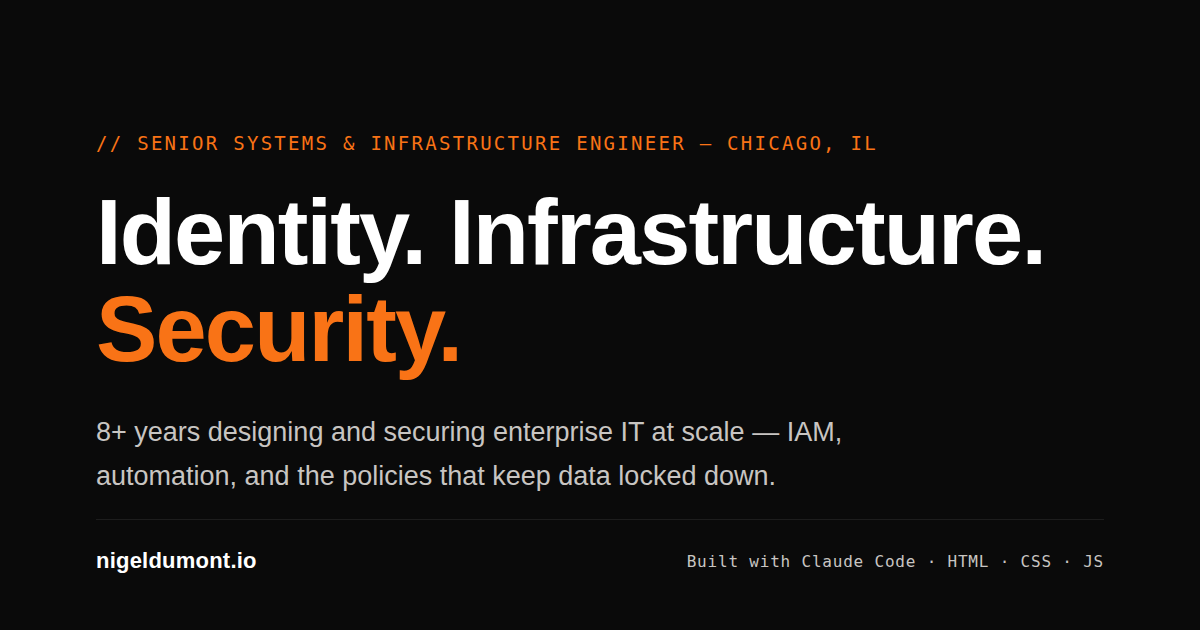
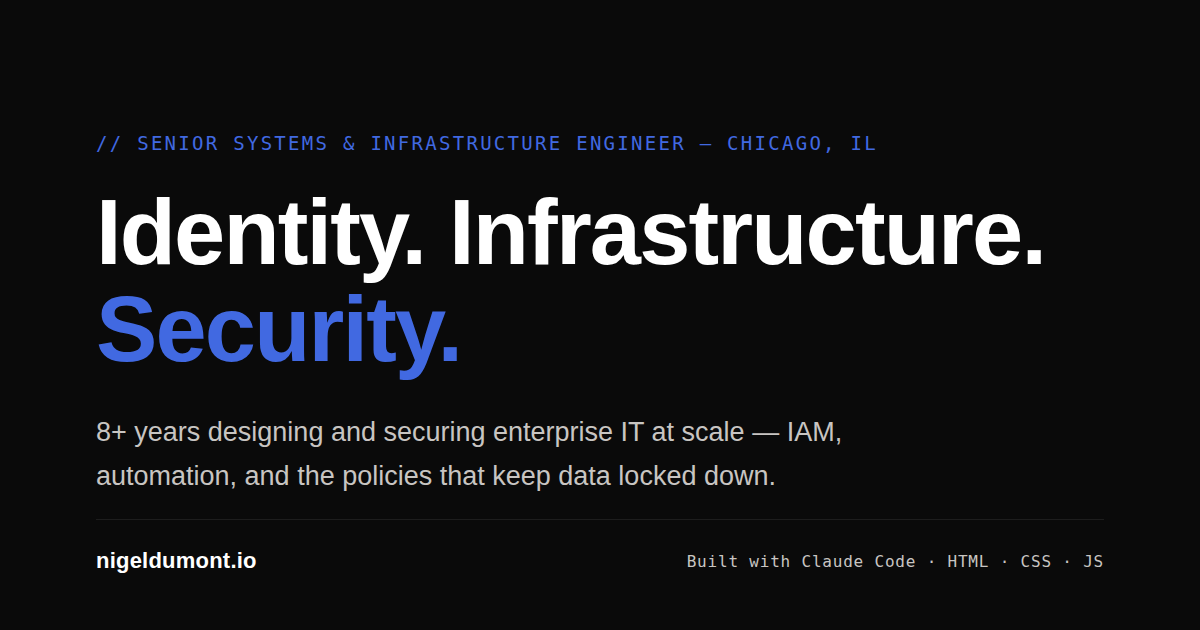
Switch accent from orange to royal/navy blue; builder defaults to light mode
- Portfolio + work samples: --blue #1E40AF (light) / #4169E1 (dark)
  replaces orange on hero, CTAs, nav tool button, hovers, contact dots
- Favicon dot and social preview card re-tinted to match
- Network builder app: full accent swap to royal blue, rebuilt and
  redeployed; now opens in light mode by default (dark via toggle)

Claude-Session: https://claude.ai/code/session_018G54t9JrTmAijpe9mP6uMb

Changed region(s): [[0.0617, 0.4524, 0.4008, 0.6032], [0.0925, 0.2111, 0.74, 0.2413]]

diff --git a/index.html b/index.html
@@ -37,8 +37,10 @@
     --muted: #6B6864;
     --accent: #4A4845;
     --accent2: #767370;
-    --orange: #EA580C;
-    --orange-deep: #C2410C;
+    --blue: #1E40AF;
+    --blue-deep: #1E3A8A;
+    --blue-dim: rgba(30,64,175,0.08);
+    --blue-border: rgba(30,64,175,0.45);
     --mono: 'Space Mono', monospace;
     --sans: 'Space Grotesk', sans-serif;
     --nav-bg: rgba(245,244,242,0.88);
@@ -54,8 +56,10 @@
     --muted: #C8C5C2;
     --accent: #FFFFFF;
     --accent2: #C8C5C2;
-    --orange: #F97316;
-    --orange-deep: #EA580C;
+    --blue: #4169E1;
+    --blue-deep: #2F4FC7;
+    --blue-dim: rgba(65,105,225,0.12);
+    --blue-border: rgba(65,105,225,0.55);
     --nav-bg: rgba(10,10,10,0.85);
   }
 
@@ -115,24 +119,24 @@
     transition: color 0.2s;
   }
 
-  .nav-links a:hover { color: var(--orange); }
+  .nav-links a:hover { color: var(--blue); }
 
   .nav-tool-link {
     display: flex;
     align-items: center;
     gap: 5px;
     font-size: 12px;
-    color: #F97316;
+    color: var(--blue);
     text-decoration: none;
-    border: 0.5px solid rgba(249,115,22,0.45);
+    border: 0.5px solid var(--blue-border);
     border-radius: 4px;
     padding: 5px 10px;
     transition: background 0.15s, border-color 0.15s;
     line-height: 1;
   }
   .nav-tool-link:hover {
-    background: rgba(249,115,22,0.08);
-    border-color: #F97316;
+    background: var(--blue-dim);
+    border-color: var(--blue);
   }
   .nav-new-badge {
     font-family: var(--mono);
@@ -140,7 +144,7 @@
     letter-spacing: 0.08em;
     text-transform: uppercase;
     color: #FFFFFF;
-    background: #F97316;
+    background: var(--blue);
     border-radius: 3px;
     padding: 1px 4px;
     font-weight: 700;
@@ -184,7 +188,7 @@
   .hero-eyebrow {
     font-family: var(--mono);
     font-size: 12px;
-    color: var(--orange);
+    color: var(--blue);
     letter-spacing: 0.12em;
     text-transform: uppercase;
     margin-bottom: 1.5rem;
@@ -198,7 +202,7 @@
     margin-bottom: 1.5rem;
   }
 
-  .hero h1 em { font-style: normal; color: var(--orange); }
+  .hero h1 em { font-style: normal; color: var(--blue); }
 
   .hero-sub {
     font-size: 1.15rem;
@@ -281,8 +285,8 @@
     display: inline-block;
   }
 
-  .btn-primary { background: var(--orange); color: #FFFFFF; font-weight: 700; }
-  .btn-primary:hover { background: var(--orange-deep); }
+  .btn-primary { background: var(--blue); color: #FFFFFF; font-weight: 700; }
+  .btn-primary:hover { background: var(--blue-deep); }
   .btn-ghost { background: transparent; color: var(--muted); border: 0.5px solid var(--border-hi); }
   .btn-ghost:hover { color: var(--text); border-color: var(--accent); }
 
@@ -629,15 +633,15 @@
   }
 
   .project-link-primary {
-    background: var(--orange);
+    background: var(--blue);
     color: #FFFFFF;
-    border-color: var(--orange);
+    border-color: var(--blue);
   }
 
   .project-link-primary:hover {
-    background: var(--orange-deep);
+    background: var(--blue-deep);
     color: #FFFFFF;
-    border-color: var(--orange-deep);
+    border-color: var(--blue-deep);
   }
 
   .contact-block { display: grid; grid-template-columns: 1fr 1fr; gap: 4rem; align-items: start; }
@@ -665,8 +669,8 @@
     transition: color 0.2s;
   }
 
-  .contact-link:hover { color: var(--orange); }
-  .contact-link-dot { width: 5px; height: 5px; border-radius: 50%; background: var(--orange); flex-shrink: 0; }
+  .contact-link:hover { color: var(--blue); }
+  .contact-link-dot { width: 5px; height: 5px; border-radius: 50%; background: var(--blue); flex-shrink: 0; }
 
   .cert-list { display: flex; flex-direction: column; gap: 0.75rem; margin-top: 0.5rem; }
 

diff --git a/network-builder/frontend/src/App.css b/network-builder/frontend/src/App.css
@@ -29,11 +29,11 @@
   --text-muted: #888580;
   --text-dim:   #555552;
 
-  /* Accent — orange */
-  --accent:        #F97316;
+  /* Accent — royal blue */
+  --accent:        #4169E1;
   --accent-dim:    rgba(249, 115, 22, 0.10);
   --accent-border: rgba(249, 115, 22, 0.28);
-  --accent-dark:   #EA580C;
+  --accent-dark:   #1E40AF;
 
   /* Semantic section colors — kept subtle to stay in palette */
   --blue:        #8BAACC;
@@ -265,7 +265,7 @@ body {
   text-align: center;
   margin-bottom: var(--space-12);
   padding: var(--space-12) 0 var(--space-8);
-  background: radial-gradient(ellipse 80% 55% at 50% 0%, rgba(249,115,22,0.07) 0%, transparent 100%);
+  background: radial-gradient(ellipse 80% 55% at 50% 0%, rgba(65,105,225,0.07) 0%, transparent 100%);
   border-radius: var(--radius-lg);
 }
 
@@ -374,9 +374,9 @@ body {
 }
 
 .option-card--selected {
-  border-color: #F97316;
-  background: rgba(249,115,22,0.08);
-  box-shadow: 0 0 0 1px rgba(249,115,22,0.15);
+  border-color: #4169E1;
+  background: rgba(65,105,225,0.08);
+  box-shadow: 0 0 0 1px rgba(65,105,225,0.15);
 }
 
 .option-card--disabled {
@@ -414,7 +414,7 @@ body {
   right: 8px;
   width: 18px;
   height: 18px;
-  background: #F97316;
+  background: #4169E1;
   border-radius: 50%;
   display: flex;
   align-items: center;
@@ -487,7 +487,7 @@ body {
 .btn:disabled { opacity: 0.4; cursor: not-allowed; }
 
 .btn--primary {
-  background: #F97316;
+  background: #4169E1;
   color: #FFFFFF;
   letter-spacing: 0.01em;
 }
@@ -1179,10 +1179,10 @@ body.light {
   --text:       #1A1A1A;
   --text-muted: #6B6864;
   --text-dim:   #9E9B97;
-  --accent:        #EA580C;
-  --accent-dim:    rgba(234,88,12,0.09);
-  --accent-border: rgba(234,88,12,0.25);
-  --accent-dark:   #C2410C;
+  --accent:        #1E40AF;
+  --accent-dim:    rgba(30,64,175,0.09);
+  --accent-border: rgba(30,64,175,0.25);
+  --accent-dark:   #1E3A8A;
   --blue:        #3B6B9E;
   --blue-dim:    rgba(59,107,158,0.08);
   --blue-border: rgba(59,107,158,0.20);
@@ -1209,21 +1209,21 @@ body.light .questionnaire__hero {
 }
 
 body.light .btn--primary {
-  background: #EA580C;
+  background: #1E40AF;
   color: #FFFFFF;
 }
 
 body.light .option-card--selected {
-  border-color: #EA580C;
-  background: rgba(234,88,12,0.07);
-  box-shadow: 0 0 0 1px rgba(234,88,12,0.15);
+  border-color: #1E40AF;
+  background: rgba(30,64,175,0.07);
+  box-shadow: 0 0 0 1px rgba(30,64,175,0.15);
 }
 
-body.light .option-card__check { background: #EA580C; }
+body.light .option-card__check { background: #1E40AF; }
 body.light .option-card__check::after { border-color: #FFFFFF; }
 
 body.light .questionnaire__hero {
-  background: radial-gradient(ellipse 80% 55% at 50% 0%, rgba(234,88,12,0.06) 0%, transparent 100%);
+  background: radial-gradient(ellipse 80% 55% at 50% 0%, rgba(30,64,175,0.06) 0%, transparent 100%);
 }
 
 body.light .option-card:hover:not(.option-card--disabled) {
@@ -1232,7 +1232,7 @@ body.light .option-card:hover:not(.option-card--disabled) {
 }
 
 body.light .step-list__item--completed .step-list__num {
-  background: #EA580C;
+  background: #1E40AF;
   color: #FFFFFF;
 }
 

diff --git a/work-samples.html b/work-samples.html
@@ -31,7 +31,7 @@
     --bg: #F5F4F2; --surface: #ECEAE7; --surface2: #E2E0DC;
     --border: rgba(0,0,0,0.08); --border-hi: rgba(0,0,0,0.18);
     --text: #1A1A1A; --muted: #6B6864; --accent: #4A4845; --accent2: #767370;
-    --orange: #EA580C; --orange-deep: #C2410C;
+    --blue: #1E40AF; --blue-deep: #1E3A8A; --blue-dim: rgba(30,64,175,0.08); --blue-border: rgba(30,64,175,0.45);
     --mono: 'Space Mono', monospace; --sans: 'Space Grotesk', sans-serif;
     --nav-bg: rgba(245,244,242,0.88);
   }
@@ -39,7 +39,7 @@
     --bg: #0A0A0A; --surface: #111111; --surface2: #1A1A1A;
     --border: rgba(255,255,255,0.08); --border-hi: rgba(255,255,255,0.18);
     --text: #FFFFFF; --muted: #C8C5C2; --accent: #FFFFFF; --accent2: #C8C5C2;
-    --orange: #F97316; --orange-deep: #EA580C;
+    --blue: #4169E1; --blue-deep: #2F4FC7; --blue-dim: rgba(65,105,225,0.12); --blue-border: rgba(65,105,225,0.55);
     --nav-bg: rgba(10,10,10,0.85);
   }
 
@@ -54,11 +54,11 @@
   .nav-right { display: flex; align-items: center; gap: 0.75rem; margin-left: auto; }
   .nav-links { display: flex; gap: 1.5rem; list-style: none; }
   .nav-links a { font-size: 12px; color: var(--muted); text-decoration: none; font-family: var(--mono); letter-spacing: 0.04em; transition: color 0.2s; }
-  .nav-links a:hover { color: var(--orange); }
+  .nav-links a:hover { color: var(--blue); }
   .nav-links a.active { color: var(--text); }
-  .nav-tool-link { display: flex; align-items: center; gap: 5px; font-size: 12px; color: #F97316; text-decoration: none; border: 0.5px solid rgba(249,115,22,0.45); border-radius: 4px; padding: 5px 10px; transition: background 0.15s, border-color 0.15s; line-height: 1; font-family: var(--mono); }
-  .nav-tool-link:hover { background: rgba(249,115,22,0.08); border-color: #F97316; }
-  .nav-new-badge { font-family: var(--mono); font-size: 8px; letter-spacing: 0.08em; text-transform: uppercase; color: #FFFFFF; background: #F97316; border-radius: 3px; padding: 1px 4px; font-weight: 700; }
+  .nav-tool-link { display: flex; align-items: center; gap: 5px; font-size: 12px; color: var(--blue); text-decoration: none; border: 0.5px solid var(--blue-border); border-radius: 4px; padding: 5px 10px; transition: background 0.15s, border-color 0.15s; line-height: 1; font-family: var(--mono); }
+  .nav-tool-link:hover { background: var(--blue-dim); border-color: var(--blue); }
+  .nav-new-badge { font-family: var(--mono); font-size: 8px; letter-spacing: 0.08em; text-transform: uppercase; color: #FFFFFF; background: var(--blue); border-radius: 3px; padding: 1px 4px; font-weight: 700; }
   .theme-toggle { background: none; border: 0.5px solid var(--border-hi); color: var(--muted); border-radius: 4px; padding: 5px 10px; font-family: var(--mono); font-size: 11px; letter-spacing: 0.04em; cursor: pointer; transition: color 0.2s, border-color 0.2s; line-height: 1; }
   .theme-toggle:hover { color: var(--text); border-color: var(--accent); }
 

diff --git a/network-builder/app/index.html b/network-builder/app/index.html
@@ -10,8 +10,8 @@
       href="https://fonts.googleapis.com/css2?family=Space+Grotesk:wght@400;500;600;700&family=Space+Mono:wght@400;700&display=swap"
       rel="stylesheet"
     />
-    <script type="module" crossorigin src="/nigeldumont.github.io/network-builder/app/assets/index-BxHi2C2N.js"></script>
-    <link rel="stylesheet" crossorigin href="/nigeldumont.github.io/network-builder/app/assets/index-C9lVfUGh.css">
+    <script type="module" crossorigin src="/nigeldumont.github.io/network-builder/app/assets/index-DFdn9rKr.js"></script>
+    <link rel="stylesheet" crossorigin href="/nigeldumont.github.io/network-builder/app/assets/index-ovAQERTJ.css">
   </head>
   <body>
     <div id="root"></div>

diff --git a/network-builder/frontend/src/App.jsx b/network-builder/frontend/src/App.jsx
@@ -17,7 +17,7 @@ export default function App() {
   const [currentStep, setCurrentStep] = useState(0);
   const [error, setError] = useState(null);
   const [theme, setTheme] = useState(
-    () => localStorage.getItem("nb-theme") || "dark"
+    () => localStorage.getItem("nb-theme") || "light"
   );
 
   useEffect(() => {

diff --git a/network-builder/app/assets/index-ovAQERTJ.css b/network-builder/app/assets/index-ovAQERTJ.css
@@ -1,0 +1,1 @@
+*,*:before,*:after{box-sizing:border-box;margin:0;padding:0}:root{--bg: #0A0A0A;--surface: #111111;--surface2: #1A1A1A;--surface3: #222222;--surface4: #2A2A2A;--border: rgba(255, 255, 255, .08);--border-hi: rgba(255, 255, 255, .22);--border-focus: rgba(232, 230, 227, .5);--text: #E8E6E3;--text-muted: #888580;--text-dim: #555552;--accent: #4169E1;--accent-dim: rgba(249, 115, 22, .1);--accent-border: rgba(249, 115, 22, .28);--accent-dark: #1E40AF;--blue: #8BAACC;--blue-dim: rgba(139, 170, 204, .08);--blue-border: rgba(139, 170, 204, .2);--amber: #C4A882;--amber-dim: rgba(196, 168, 130, .08);--amber-border:rgba(196, 168, 130, .2);--red: #C08080;--red-dim: rgba(192, 128, 128, .08);--red-border: rgba(192, 128, 128, .2);--purple: #9E8FBF;--purple-dim: rgba(158, 143, 191, .08);--purple-border: rgba(158, 143, 191, .2);--sans: "Space Grotesk", system-ui, sans-serif;--mono: "Space Mono", "Courier New", monospace;--space-1: 4px;--space-2: 8px;--space-3: 12px;--space-4: 16px;--space-5: 20px;--space-6: 24px;--space-8: 32px;--space-10: 40px;--space-12: 48px;--space-16: 64px;--radius-sm: 6px;--radius: 10px;--radius-lg: 16px;--transition: .15s ease}html{scroll-behavior:smooth}body{background:var(--bg);color:var(--text);font-family:var(--sans);font-size:15px;line-height:1.6;-webkit-font-smoothing:antialiased;min-height:100vh}.app{display:flex;flex-direction:column;min-height:100vh}.app-header{position:sticky;top:0;z-index:100;background:#0a0a0ae6;backdrop-filter:blur(16px);-webkit-backdrop-filter:blur(16px);border-bottom:1px solid rgba(255,255,255,.07);padding:var(--space-4) var(--space-8);display:flex;align-items:center;justify-content:space-between;gap:var(--space-4)}.app-header__logo{display:flex;align-items:center;gap:var(--space-3)}.app-header__dot{width:8px;height:8px;border-radius:50%;background:var(--accent);flex-shrink:0}.app-header__title{font-size:15px;font-weight:600;letter-spacing:.01em;color:var(--text)}.app-header__sub{font-size:12px;color:var(--text-muted);font-family:var(--mono)}.app-header__badge{font-size:11px;font-family:var(--mono);color:var(--accent);background:var(--accent-dim);border:1px solid var(--accent-border);border-radius:var(--radius-sm);padding:2px 8px;white-space:nowrap}.app-header__right{display:flex;align-items:center;gap:var(--space-4)}.app-header__back{font-size:12px;font-family:var(--mono);color:var(--text-muted);text-decoration:none;letter-spacing:.04em;transition:color var(--transition);white-space:nowrap}.app-header__back:hover{color:var(--text)}.theme-toggle{font-size:12px;font-family:var(--mono);color:var(--text-muted);background:transparent;border:1px solid var(--border-hi);border-radius:var(--radius-sm);padding:4px 10px;cursor:pointer;transition:color var(--transition),border-color var(--transition),background var(--transition);white-space:nowrap}.theme-toggle:hover{color:var(--text);background:var(--surface2)}.main{flex:1;padding:var(--space-10) var(--space-8);max-width:960px;margin:0 auto;width:100%}.loading{display:flex;flex-direction:column;align-items:center;justify-content:center;min-height:60vh;gap:var(--space-5)}.loading__spinner{width:40px;height:40px;border:3px solid var(--border);border-top-color:var(--accent);border-radius:50%;animation:spin .8s linear infinite}@keyframes spin{to{transform:rotate(360deg)}}.loading__text{font-size:14px;color:var(--text-muted);font-family:var(--mono)}.error-card{background:var(--red-dim);border:1px solid var(--red-border);border-radius:var(--radius-lg);padding:var(--space-8);text-align:center;max-width:500px;margin:var(--space-16) auto}.error-card__icon{font-size:32px;margin-bottom:var(--space-4)}.error-card__title{font-size:18px;font-weight:600;margin-bottom:var(--space-3)}.error-card__message{font-size:14px;color:var(--text-muted);margin-bottom:var(--space-6);line-height:1.6}.questionnaire{max-width:680px;margin:0 auto}.questionnaire__hero{text-align:center;margin-bottom:var(--space-12);padding:var(--space-12) 0 var(--space-8);background:radial-gradient(ellipse 80% 55% at 50% 0%,rgba(65,105,225,.07) 0%,transparent 100%);border-radius:var(--radius-lg)}.questionnaire__eyebrow{font-size:12px;font-family:var(--mono);color:var(--accent);letter-spacing:.1em;text-transform:uppercase;margin-bottom:var(--space-4)}.questionnaire__title{font-size:clamp(34px,5vw,50px);font-weight:700;line-height:1.15;letter-spacing:-.03em;margin-bottom:var(--space-4);color:#fff}.questionnaire__subtitle{font-size:16px;color:var(--text-muted);line-height:1.6;max-width:500px;margin:0 auto var(--space-4)}.questionnaire__byline{font-size:12px;font-family:var(--mono);color:var(--text-dim);letter-spacing:.06em}.questionnaire__form{display:flex;flex-direction:column;gap:var(--space-8)}.question-block{display:flex;flex-direction:column;gap:var(--space-3)}.question-block__label{font-size:13px;font-family:var(--mono);color:var(--text-muted);text-transform:uppercase;letter-spacing:.08em;display:flex;align-items:center;gap:var(--space-2)}.question-block__number{display:inline-flex;align-items:center;justify-content:center;width:20px;height:20px;background:var(--surface3);border-radius:50%;font-size:11px;color:var(--accent);font-weight:700}.question-block__title{font-size:18px;font-weight:600;margin-bottom:var(--space-1)}.option-grid{display:grid;grid-template-columns:repeat(auto-fill,minmax(180px,1fr));gap:var(--space-3)}.option-grid--2col{grid-template-columns:1fr 1fr}.option-card{background:var(--surface);border:1px solid var(--border);border-radius:var(--radius);padding:var(--space-4) var(--space-5);cursor:pointer;transition:border-color var(--transition),background var(--transition),transform var(--transition),box-shadow var(--transition);position:relative;-webkit-user-select:none;user-select:none}.option-card:hover:not(.option-card--disabled){border-color:#ffffff4d;background:var(--surface2);transform:translateY(-1px);box-shadow:0 4px 16px #0006}.option-card--selected{border-color:#4169e1;background:#4169e114;box-shadow:0 0 0 1px #4169e126}.option-card--disabled{opacity:.4;cursor:not-allowed}.option-card__title{font-size:14px;font-weight:600;margin-bottom:2px}.option-card__desc{font-size:12px;color:var(--text-muted);line-height:1.4}.option-card__soon{position:absolute;top:8px;right:8px;font-size:10px;font-family:var(--mono);color:var(--text-dim);background:var(--surface3);border-radius:4px;padding:1px 5px}.option-card__check{position:absolute;top:8px;right:8px;width:18px;height:18px;background:#4169e1;border-radius:50%;display:flex;align-items:center;justify-content:center}.option-card__check:after{content:"";width:5px;height:9px;border:2px solid #0A0A0A;border-top:none;border-left:none;transform:rotate(45deg) translateY(-1px)}.security-banner{background:var(--surface);border:1px solid var(--accent-border);border-radius:var(--radius);padding:var(--space-4) var(--space-5);display:flex;gap:var(--space-4);align-items:flex-start}.security-banner__icon{font-size:20px;flex-shrink:0;margin-top:1px}.security-banner__title{font-size:14px;font-weight:600;color:var(--accent);margin-bottom:var(--space-1)}.security-banner__body{font-size:13px;color:var(--text-muted);line-height:1.6}.questionnaire__submit{margin-top:var(--space-4)}.btn{display:inline-flex;align-items:center;justify-content:center;gap:var(--space-2);font-family:var(--sans);font-size:14px;font-weight:600;padding:10px 22px;border-radius:var(--radius-sm);border:none;cursor:pointer;transition:opacity var(--transition),transform var(--transition);white-space:nowrap}.btn:hover{opacity:.88}.btn:active{transform:scale(.98)}.btn:disabled{opacity:.4;cursor:not-allowed}.btn--primary{background:#4169e1;color:#fff;letter-spacing:.01em}.btn--secondary{background:var(--surface3);color:var(--text);border:1px solid var(--border-hi)}.btn--ghost{background:transparent;color:var(--text-muted);border:1px solid var(--border)}.btn--ghost:hover{background:var(--surface);color:var(--text)}.btn--lg{font-size:16px;padding:14px 32px;border-radius:var(--radius)}.btn--full{width:100%}.progress-bar{display:flex;align-items:center;gap:var(--space-3);margin-bottom:var(--space-8)}.progress-bar__track{flex:1;height:3px;background:var(--surface3);border-radius:99px;overflow:hidden}.progress-bar__fill{height:100%;background:var(--accent);border-radius:99px;transition:width .35s ease}.progress-bar__label{font-size:12px;font-family:var(--mono);color:var(--text-muted);white-space:nowrap}.walkthrough{display:grid;grid-template-columns:220px 1fr;gap:var(--space-8);align-items:start}.step-list{position:sticky;top:80px;display:flex;flex-direction:column;gap:2px}.step-list__path{font-size:11px;font-family:var(--mono);color:var(--accent);text-transform:uppercase;letter-spacing:.08em;margin-bottom:var(--space-4);padding:var(--space-2) var(--space-3);background:var(--accent-dim);border:1px solid var(--accent-border);border-radius:var(--radius-sm)}.step-list__item{display:flex;align-items:center;gap:var(--space-3);padding:var(--space-2) var(--space-3);border-radius:var(--radius-sm);cursor:pointer;transition:background var(--transition);border:1px solid transparent}.step-list__item:hover{background:var(--surface2)}.step-list__item--active{background:var(--surface2);border-color:var(--border)}.step-list__item--completed .step-list__num{background:var(--accent);color:#000}.step-list__num{width:24px;height:24px;border-radius:50%;background:var(--surface3);color:var(--text-muted);font-size:11px;font-family:var(--mono);font-weight:700;display:flex;align-items:center;justify-content:center;flex-shrink:0;transition:background var(--transition),color var(--transition)}.step-list__item--active .step-list__num{background:var(--surface4);color:var(--text);border:1px solid var(--accent)}.step-list__name{font-size:12px;color:var(--text-muted);line-height:1.3}.step-list__item--active .step-list__name{color:var(--text);font-weight:500}.step-card{display:flex;flex-direction:column;gap:var(--space-5)}.step-card__header{display:flex;align-items:center;gap:var(--space-4);margin-bottom:var(--space-2)}.step-card__num{font-size:12px;font-family:var(--mono);color:var(--accent);background:var(--accent-dim);border:1px solid var(--accent-border);border-radius:var(--radius-sm);padding:2px 10px;white-space:nowrap}.step-card__title{font-size:26px;font-weight:700;letter-spacing:-.02em;flex:1}.section{background:var(--surface);border-radius:var(--radius);overflow:hidden}.section__header{display:flex;align-items:center;gap:var(--space-3);padding:var(--space-4) var(--space-5);border-bottom:1px solid var(--border)}.section__icon{width:28px;height:28px;border-radius:var(--radius-sm);display:flex;align-items:center;justify-content:center;font-size:14px;flex-shrink:0}.section--what .section__icon{background:var(--blue-dim);border:1px solid var(--blue-border)}.section--why .section__icon{background:var(--amber-dim);border:1px solid var(--amber-border)}.section--products .section__icon{background:var(--accent-dim);border:1px solid var(--accent-border)}.section--alts .section__icon{background:var(--surface3);border:1px solid var(--border)}.section--patch .section__icon{background:var(--red-dim);border:1px solid var(--red-border)}.section--config .section__icon{background:var(--purple-dim);border:1px solid var(--purple-border)}.section__title{font-size:13px;font-weight:600;text-transform:uppercase;letter-spacing:.06em}.section--what .section__title{color:var(--blue)}.section--why .section__title{color:var(--amber)}.section--products .section__title{color:var(--accent)}.section--alts .section__title{color:var(--text-muted)}.section--patch .section__title{color:var(--red)}.section--config .section__title{color:var(--purple)}.section__body{padding:var(--space-5)}.section__text{font-size:14px;color:var(--text-muted);line-height:1.7}.product-list{display:flex;flex-direction:column;gap:var(--space-3)}.product-card{background:var(--surface2);border:1px solid var(--border);border-radius:var(--radius);padding:var(--space-4) var(--space-5)}.product-card__top{display:flex;align-items:flex-start;justify-content:space-between;gap:var(--space-4);margin-bottom:var(--space-2)}.product-card__name{font-size:14px;font-weight:600;line-height:1.4}.product-card__price{font-size:13px;font-family:var(--mono);color:var(--accent);white-space:nowrap;flex-shrink:0;background:var(--accent-dim);border:1px solid var(--accent-border);border-radius:var(--radius-sm);padding:2px 8px}.product-card__role{font-size:11px;font-family:var(--mono);color:var(--text-dim);text-transform:uppercase;letter-spacing:.06em;margin-bottom:var(--space-2)}.product-card__note{font-size:13px;color:var(--text-muted);line-height:1.6}.alt-list{display:flex;flex-direction:column;gap:var(--space-3)}.alt-item{border-left:2px solid var(--surface3);padding-left:var(--space-4)}.alt-item__name{font-size:14px;font-weight:600;margin-bottom:var(--space-1)}.alt-item__comparison{font-size:13px;color:var(--text-muted);line-height:1.6}.section--alts .section__body{display:flex;flex-direction:column;gap:var(--space-4)}.no-alts{font-size:13px;color:var(--text-dim);font-style:italic}.config-steps{display:flex;flex-direction:column;gap:var(--space-3);counter-reset:config-step}.config-step{display:flex;gap:var(--space-3);counter-increment:config-step}.config-step:before{content:counter(config-step);display:flex;align-items:center;justify-content:center;width:24px;height:24px;min-width:24px;background:var(--surface3);border-radius:50%;font-size:11px;font-family:var(--mono);font-weight:700;color:var(--purple);margin-top:1px}.config-step__text{font-size:13px;color:var(--text-muted);line-height:1.6;font-family:var(--mono)}.step-nav{display:flex;justify-content:space-between;align-items:center;padding-top:var(--space-4);border-top:1px solid var(--border);margin-top:var(--space-4)}.step-nav__center{font-size:13px;color:var(--text-muted);font-family:var(--mono)}.diagram-section{margin:var(--space-8) 0}.diagram-section__title{font-size:13px;font-family:var(--mono);color:var(--text-muted);text-transform:uppercase;letter-spacing:.08em;margin-bottom:var(--space-4)}.diagram-container{background:var(--surface);border:1px solid var(--border);border-radius:var(--radius-lg);padding:var(--space-6);overflow-x:auto}.diagram-pre{font-family:var(--mono);font-size:13px;line-height:1.7;color:var(--text-muted);white-space:pre}.diagram-pre .hl-wan{color:var(--blue)}.diagram-pre .hl-fw{color:var(--red)}.diagram-pre .hl-sw{color:var(--amber)}.diagram-pre .hl-ap{color:var(--purple)}.diagram-pre .hl-mon{color:var(--accent)}.integration-steps{margin-top:var(--space-6);display:flex;flex-direction:column;gap:var(--space-3);counter-reset:int-step}.integration-step{display:flex;gap:var(--space-3);counter-increment:int-step}.integration-step:before{content:counter(int-step);display:flex;align-items:center;justify-content:center;width:22px;height:22px;min-width:22px;background:var(--surface3);border-radius:50%;font-size:11px;font-family:var(--mono);color:var(--accent);font-weight:700;margin-top:2px}.integration-step__text{font-size:13px;color:var(--text-muted);line-height:1.6}.summary{display:flex;flex-direction:column;gap:var(--space-10)}.summary__path-card{background:var(--surface);border:1px solid var(--accent-border);border-radius:var(--radius-lg);padding:var(--space-8)}.summary__path-badge{font-size:11px;font-family:var(--mono);color:var(--accent);text-transform:uppercase;letter-spacing:.1em;margin-bottom:var(--space-3)}.summary__path-name{font-size:28px;font-weight:700;letter-spacing:-.02em;margin-bottom:var(--space-2)}.summary__path-tagline{font-size:16px;color:var(--text-muted);margin-bottom:var(--space-6)}.summary__costs{display:grid;grid-template-columns:repeat(auto-fill,minmax(180px,1fr));gap:var(--space-4);margin-bottom:var(--space-6)}.cost-card{background:var(--surface2);border:1px solid var(--border);border-radius:var(--radius);padding:var(--space-4) var(--space-5)}.cost-card__label{font-size:11px;font-family:var(--mono);color:var(--text-dim);text-transform:uppercase;letter-spacing:.08em;margin-bottom:var(--space-2)}.cost-card__value{font-size:20px;font-weight:700;color:var(--accent);font-family:var(--mono)}.summary__path-desc{font-size:14px;color:var(--text-muted);line-height:1.7}.summary__section-title{font-size:18px;font-weight:700;margin-bottom:var(--space-5);display:flex;align-items:center;gap:var(--space-3)}.summary__section-title:before{content:"";display:block;width:4px;height:20px;background:var(--accent);border-radius:2px}.stack-table{width:100%;border-collapse:collapse;background:var(--surface);border:1px solid var(--border);border-radius:var(--radius-lg);overflow:hidden;font-size:13px}.stack-table th{font-family:var(--mono);font-size:11px;text-transform:uppercase;letter-spacing:.06em;color:var(--text-dim);text-align:left;padding:var(--space-3) var(--space-4);border-bottom:1px solid var(--border);background:var(--surface2)}.stack-table td{padding:var(--space-3) var(--space-4);border-bottom:1px solid var(--border);vertical-align:top;line-height:1.5}.stack-table tr:last-child td{border-bottom:none}.stack-table tr:hover td{background:var(--surface2)}.stack-table__step{font-family:var(--mono);font-size:11px;color:var(--accent);white-space:nowrap}.stack-table__component{font-weight:600;color:var(--text)}.stack-table__product{color:var(--text-muted)}.stack-table__price{font-family:var(--mono);font-size:12px;color:var(--accent);white-space:nowrap}.sources-grid{display:grid;grid-template-columns:repeat(auto-fill,minmax(240px,1fr));gap:var(--space-4)}.source-card{background:var(--surface);border:1px solid var(--border);border-radius:var(--radius);padding:var(--space-4) var(--space-5);text-decoration:none;color:inherit;display:block;transition:border-color var(--transition),background var(--transition)}.source-card:hover{border-color:var(--accent-border);background:var(--surface2)}.source-card__vendor{font-size:14px;font-weight:600;color:var(--accent);margin-bottom:var(--space-1)}.source-card__url{font-size:11px;font-family:var(--mono);color:var(--text-dim);margin-bottom:var(--space-2)}.source-card__note{font-size:12px;color:var(--text-muted);line-height:1.5}.pricing-note{background:var(--amber-dim);border:1px solid var(--amber-border);border-radius:var(--radius);padding:var(--space-4) var(--space-5);font-size:13px;color:var(--text-muted);display:flex;gap:var(--space-3);align-items:flex-start}.pricing-note__icon{font-size:16px;flex-shrink:0;margin-top:1px}.summary__actions{display:flex;gap:var(--space-4);justify-content:center;padding-top:var(--space-4);border-top:1px solid var(--border)}body.light{--bg: #F5F4F2;--surface: #ECEAE7;--surface2: #E2E0DC;--surface3: #D5D2CD;--surface4: #C8C5C0;--border: rgba(0,0,0,.07);--border-hi: rgba(0,0,0,.16);--border-focus: rgba(0,0,0,.35);--text: #1A1A1A;--text-muted: #6B6864;--text-dim: #9E9B97;--accent: #1E40AF;--accent-dim: rgba(30,64,175,.09);--accent-border: rgba(30,64,175,.25);--accent-dark: #1E3A8A;--blue: #3B6B9E;--blue-dim: rgba(59,107,158,.08);--blue-border: rgba(59,107,158,.2);--amber: #8B6914;--amber-dim: rgba(139,105,20,.08);--amber-border:rgba(139,105,20,.2);--red: #9E4040;--red-dim: rgba(158,64,64,.07);--red-border: rgba(158,64,64,.18);--purple: #6B4E9E;--purple-dim: rgba(107,78,158,.08);--purple-border: rgba(107,78,158,.18)}body.light .app-header{background:#f5f4f2eb;border-bottom-color:#00000014}body.light .questionnaire__title{color:#1a1a1a}body.light .questionnaire__hero{background:radial-gradient(ellipse 80% 55% at 50% 0%,rgba(0,0,0,.04) 0%,transparent 100%)}body.light .btn--primary{background:#1e40af;color:#fff}body.light .option-card--selected{border-color:#1e40af;background:#1e40af12;box-shadow:0 0 0 1px #1e40af26}body.light .option-card__check{background:#1e40af}body.light .option-card__check:after{border-color:#fff}body.light .questionnaire__hero{background:radial-gradient(ellipse 80% 55% at 50% 0%,rgba(30,64,175,.06) 0%,transparent 100%)}body.light .option-card:hover:not(.option-card--disabled){border-color:#00000040;box-shadow:0 4px 16px #00000012}body.light .step-list__item--completed .step-list__num{background:#1e40af;color:#fff}body.light .config-step:before{color:var(--purple)}@media (max-width: 768px){.main{padding:var(--space-6) var(--space-4)}.app-header{padding:var(--space-3) var(--space-4)}.app-header__sub{display:none}.walkthrough{grid-template-columns:1fr}.step-list{position:static;flex-direction:row;flex-wrap:nowrap;overflow-x:auto;padding-bottom:var(--space-2);gap:var(--space-2)}.step-list__path,.step-list__name{display:none}.step-list__item{flex-shrink:0}.questionnaire__title{font-size:26px}.option-grid--2col{grid-template-columns:1fr}.stack-table{font-size:12px}.stack-table th,.stack-table td{padding:var(--space-2) var(--space-3)}}